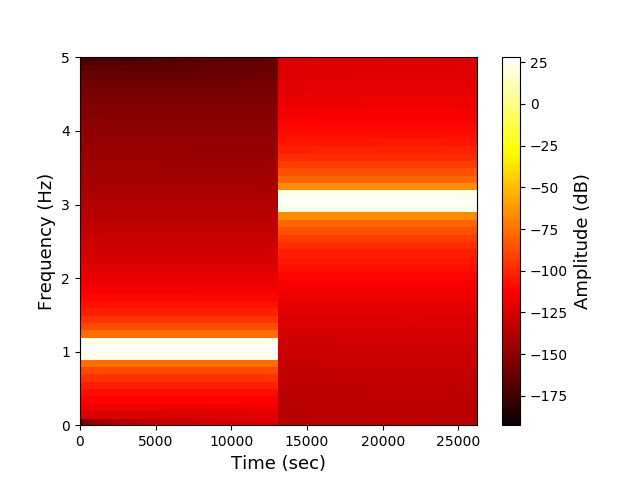
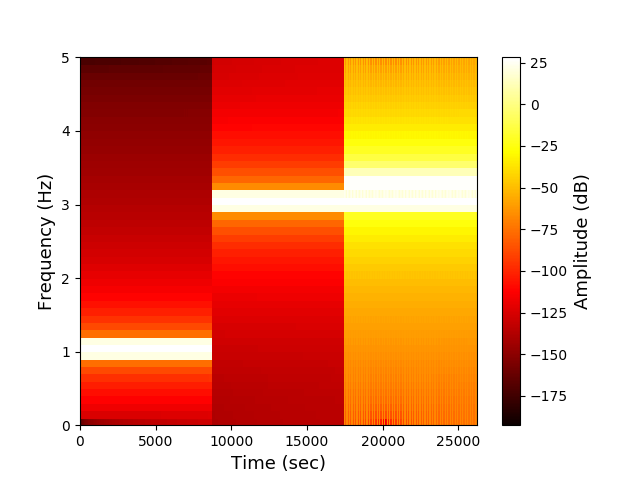
k

diff --git a/Rapport/sections/mainmatter/chapter_8/design.tex b/Rapport/sections/mainmatter/chapter_8/design.tex
@@ -63,7 +63,7 @@ As the order $N$ of the filter increases the characteristics become sharper and 
 \begin{figure}[H]
     \centering
     \includegraphics[width = 0.6\textwidth]{figures/butterworth.png}
-    \caption{Amplitude response of Butterworth filter depending on order $N$ }
+    \caption{Magnitude of Butterworth filter depending on order $N$ }
     \label{fig:butter}
 \end{figure} 
 In order to obtain stability in the system representation in the $s$-domain is wanted. By substituting $s=j\Omega$ the following relation is true
@@ -239,7 +239,24 @@ w[n]=\left\{\begin{matrix}
 \end{matrix}\right.
 \end{align}
 
-where $\alpha=\frac{M}{2}$ and $I_0(\cdot)$ is the zero'th order modified Bessel function of the first kind \cite{DTSP, p.474-476}. Increasing $\beta$ tapers the window in the time domain, which results in smaller side lopes of the Fourier transform. Increasing $M$ causes the width of the main lope to increase but without changing the peak amplitude of the side lopes. This is illustrated in figures \ref{?} and \ref{?}, respectively \trine{2 figurer.}.\\ 
+where $\alpha=\frac{M}{2}$ and $I_0(\cdot)$ is the zero'th order modified Bessel function of the first kind \cite{DTSP, p.474-476}. Increasing $\beta$ tapers the window in the time domain, which results in smaller side lopes of the Fourier transform. Increasing $M$ causes the width of the main lope to increase but without changing the peak amplitude of the side lopes. This is illustrated in figures \ref{fig:kaiser_beta} and \ref{fig:kaiser_order}, respectively.\\
+
+\begin{figure}[H]
+\centering
+\begin{minipage}{0.49\textwidth}
+\centering
+\includegraphics[width=\textwidth]{figures/dbplots/kaiser_beta.png}
+\caption{dB amplitude response of Kaiser windows of order $M=100$ with $\beta=0,2$ and 4 for blue, orange and green respectively. As $\beta$ increases the side lobes become smaller.}
+\label{fig:kaiser_beta}
+\end{minipage}
+\begin{minipage}{0.49\textwidth}
+\centering
+\includegraphics[width=\textwidth]{figures/dbplots/kaiser_order.png}
+\caption{dB amplitude response of Kaiser windows with $\beta=6$ and order $M=50,100$ and 150 for blue, orange and green respectively. As $M$ increases the main lobe becomes narrower.}
+\label{fig:kaiser_order}
+\end{minipage}
+\end{figure}
+ 
 In order to determine values for $\beta$ and $M$ according to  satisfying the desired specifications the following formulas are defined. Considering a lowpass filter with a fixed peak approximation error $\delta$ this gives a cutoff frequency of the passband $\omega_p$ defined by $|H(\omega)| \geq 1-\delta$ and cutoff frequency of the stopband $\omega_s$ defined by $|H(\omega)| \leq \delta$. This gives a transitionband of width $\Delta \omega = \omega_s - \omega_p$. Defining $\delta$ in $[dB]$ by $A=-20\log_{10} \delta$ it is possible to determine the value of $\beta$ on behalf of a specific value of $A$ as 
 \begin{align}
 \beta =

diff --git a/Rapport/sections/mainmatter/chapter_10/stft.tex b/Rapport/sections/mainmatter/chapter_10/stft.tex
@@ -41,12 +41,13 @@ The algorithm for generating a spectrogram from the STFT is likewise implemented
 \subsection{Validation of the STFT and spectogram}
 The validation of the STFT and spectrograms will be done as a whole entity, and the test specification consists of generating a spectrogram from a signal containing a single sinusoidal wave, which changes frequency once during the sampling interval. The signal is defined as
 \begin{align}\label{eq:SPECTROsignal}
-sig(x)=\begin{cases}\sin(2\pi x)\,\text{for }x<\frac{t}{2}\\
-\sin(6\pi x)\,\text{for }x\geq\frac{t}{2}
-\end{cases}.
+sig(x)=\begin{cases}\sin(2\pi x)&\text{for }x<\frac{t}{3}\\
+\sin(6\pi x)&\text{for }\frac{t}{3}\leq x < \frac{2t}{3}\\
+\sin(6\pi x)+\sin(6.5\pi x)&\text{for }x\geq\frac{2t}{3}
+\end{cases}
 \end{align}
 
-The sine waves are then with frequencies of 1 and 3 Hz, respectively, and the signal is sampled for $t=26214$ seconds at $f_s=10$ Hz. Figure \ref{fig:test_stft} shows spectrograms of the signal generated with windows of different lengths.
+The sine waves are then with frequencies of 1, 3 and 3.25 Hz, respectively, and the signal is sampled for $t=26214$ seconds at $f_s=10$ Hz. Figure \ref{fig:test_stft} shows spectrograms of the signal generated with windows of different lengths.
 \begin{figure}[H]
 \centering
 \begin{subfigure}{0.49\textwidth}
@@ -68,3 +69,16 @@ The sine waves are then with frequencies of 1 and 3 Hz, respectively, and the si
 From figure \ref{fig:test_stft} it is clearly seen how the length of the window in the STFT used for generating the spectrogram affects the resolution in time and frequency. This agrees with Heisenberg's uncertanity principle described in section \ref{sec:heisenberg}, and so there must be made a tradeoff between the two resolutions. For the purpose of this project it is decided, that...\frede{Her skal vi lige blive enige om hvad vi gør med opløsningen.}
 \\ \\
 It is therefore concluded that the implementation of the STFT and spectrogram work as intended.
+\subsection{Variation of windows in STFT}
+The STFT uses a window function to taper the segment of the data to be transformed. As with filters the different windows produce different results for the STFT. These results are seen in figures *Insert figures*
+
+
+
+
+
+
+
+
+
+
+
